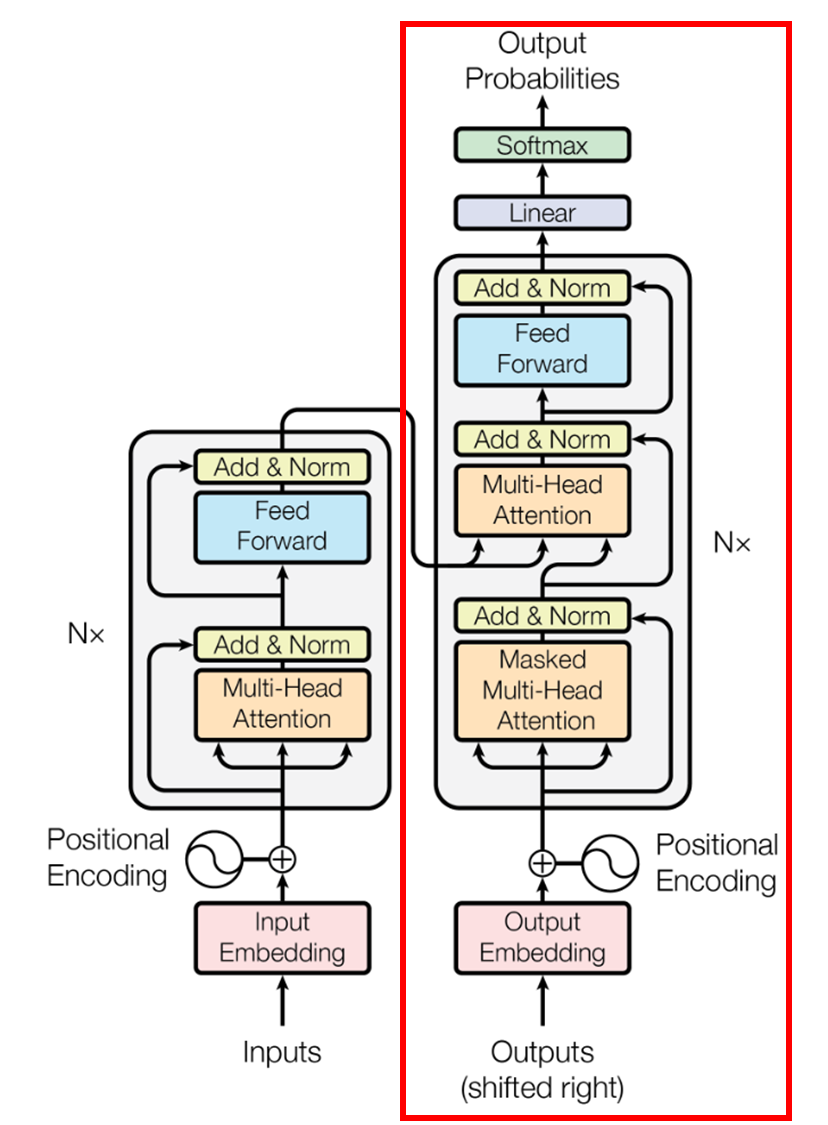
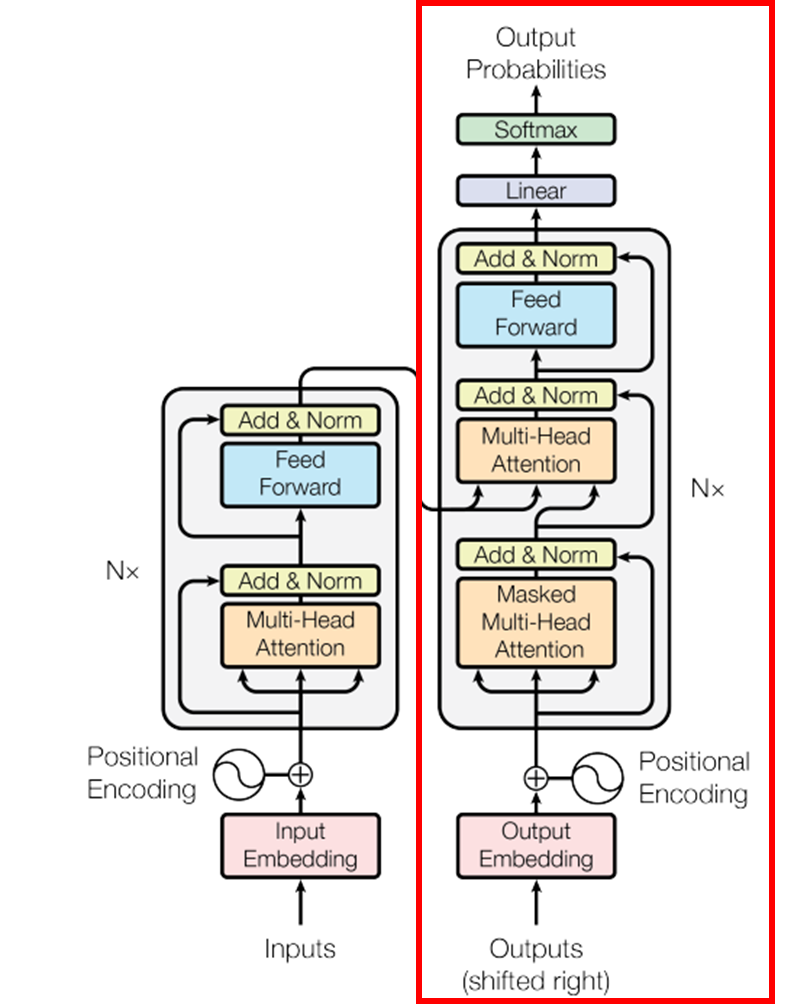
feat: very very very very very very very very very good

Changed region(s): [[0.062, 0.0, 0.9603, 1.0]]

diff --git a/_posts/2025-06-04-Final.md b/_posts/2025-06-04-Final.md
@@ -127,17 +127,17 @@ Therefore, GPUs and NPUs, which are optimized for high compute intensity, perfor
 GPUs and NPUs operate more efficiently when the arithmetic intensity of GEMV is high. Thus, while they are well-suited for high-operation-intensity tasks like GEMM, they tend to show lower utilization for matrix-vector multiplications such as GEMV.
 
 ### Explanation of Detailed Operations in LLM Transformers, Multi-Head Attention, and GEMM/GEMV Computation
-- transformer & GPT
+> transformer & GPT
 
   {% include figure.html path="assets/img/2025-06-04-Final/transformer.png"  class="col-10" %}
 
   LLMs such as ChatGPT and Llama3<d-cite key="Llama3"></d-cite> primarily follow the GPT architecture, which adopts only the decoding stack of the Transformer structure. A key characteristic of this architecture is that it generates one token per iteration during the token generation process.<d-cite key="PIMIsAllYouNeed"></d-cite>
 
   
-- Difference Between the Prefill and Decoding Phases in the Decoding Stack
 
-  {% include figure.html path="assets/img/2025-06-04-Final/attacc.png"  class="col-10" %}
-  
+> Difference Between the Prefill and Decoding Phases in the Decoding Stack
+
+{% include figure.html path="assets/img/2025-06-04-Final/attacc.png"  class="col-10" %}
 
   The transformer structure in GPT primarily consists of a Decoding Stack, which is composed of Multi-Head Attention (MHA) blocks and Feed Forward blocks. Each of these blocks is made up of the following key layers<d-cite key="attacc"></d-cite>:  
   - MHA Block
